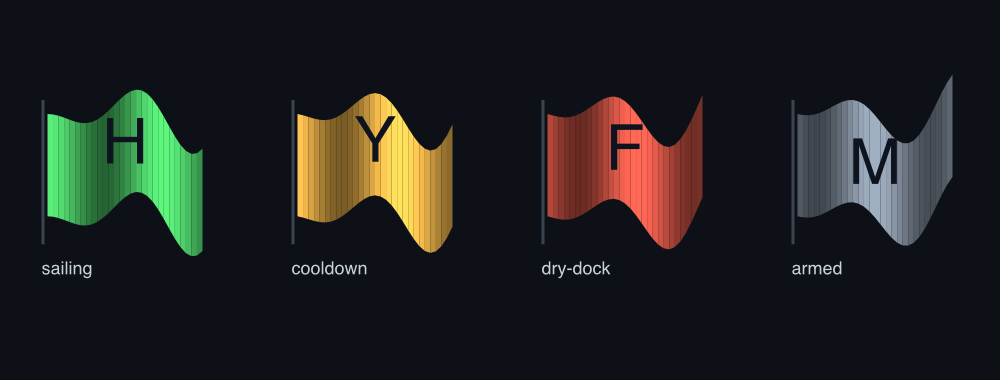
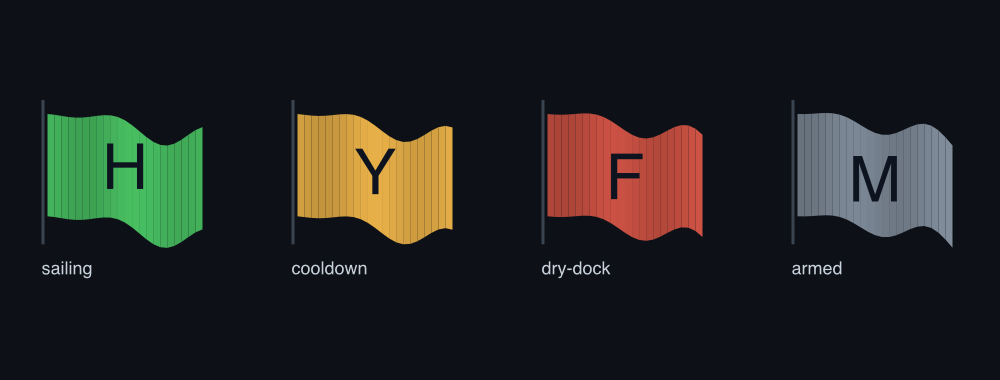
feat(pd-flag-proto): movement-driven flags (wave as a function of pole velocity)
Per operator direction: the flags should wave as a FUNCTION OF MOVEMENT, not on a
free-running clock — when the pane scrolls or resizes, the cloth reacts in one of
four directions and then settles. Lower-fidelity is fine.

Replaces the time-driven loop with a velocity model: each flag's fly edge trails
OPPOSITE the pole velocity (dx = -vx·lean, dy = -vy·lean, smoothstepped hoist→fly),
a ripple whose amplitude ∝ speed, and a gentle rest droop. Crucially the phase
only advances while moving, so a still flag does not animate at all (zero idle
re-render — the frame-budget win the motion skill wants).

main.rs drives a scripted 4-direction profile (scroll-down, scroll-up, pan-right,
pan-left) as decaying velocity impulses to record all four reactions + the settle.
This deflect(velocity) is precisely the function the live fleet pane will feed
real scroll/resize deltas into (next step: the in-pane integration).

Visually audited: frame 10 (post scroll-down → wide vertical ripple) and frame 70
(post pan-right → compressed, pulled left) are distinct; idle frames hang still.

Claude-Session: https://claude.ai/code/session_015io4g1aeeN6Cmedy3QbgR2

diff --git a/core/pd-flag-proto/src/flag_scene.rs b/core/pd-flag-proto/src/flag_scene.rs
@@ -39,10 +39,27 @@ const STAFF: Color = Color::rgb8(0x3a, 0x44, 0x50);
 const INK: Color = Color::rgb8(0x0d, 0x14, 0x1f); // dark letter, reads on every tone
 const LABEL: Color = Color::rgb8(0xc8, 0xd2, 0xdc);
 
-const STRIPS: usize = 28; // per-flag horizontal resolution of the ripple
-const WAVES: f64 = 1.35; // wave crests across one flag's width
-const CYCLES_PER_LOOP: f64 = 2.0; // integer K → seamless loop
-const PHASE_STEP: f64 = 0.7; // radians of phase offset between adjacent flags
+const STRIPS: usize = 22; // per-flag horizontal resolution (lower-fidelity is fine)
+const RIPPLE_WAVES: f64 = 1.6; // crests across the flag when it's moving
+const RIPPLE_GAIN: f64 = 0.55; // ripple amplitude per unit speed
+const LEAN: f64 = 0.55; // how far the fly end trails per unit pole velocity
+const IDLE_DROOP: f64 = 0.12; // gentle hang at rest (never stiff/blank)
+const PHASE_STEP: f64 = 0.7; // phase offset between adjacent flags
+
+/// Per-frame pole movement that drives the wave. A flag streams OPPOSITE the
+/// pole's velocity — scroll the pane down and the cloth trails up; drag it right
+/// and the cloth trails left. Four directions fall out of the (vx, vy) sign.
+/// `vx`/`vy` are normalized to roughly [-1, 1] (±1 = a hard flick); `phase`
+/// accumulates only while moving, so a still flag does not animate at all.
+pub struct Movement {
+    pub vx: f64, // horizontal pole velocity (resize / pane-move); + = rightward
+    pub vy: f64, // vertical pole velocity (scroll); + = downward
+    pub phase: f64, // accumulated ripple phase
+}
+
+fn smoothstep(u: f64) -> f64 {
+    u * u * (3.0 - 2.0 * u)
+}
 
 fn scale_color(c: Color, f: f64) -> Color {
     let f = f.clamp(0.0, 1.4);
@@ -105,26 +122,24 @@ impl TextEngine {
     }
 }
 
-/// Build a horizontal row of waving flags for the given loop position (0..1).
-pub fn build(scene: &mut Scene, te: &mut TextEngine, loop_pos: f64, flags: &[FlagSpec], width: u32, height: u32) {
+/// Build a horizontal row of flags reacting to the current pole `Movement`.
+pub fn build(scene: &mut Scene, te: &mut TextEngine, mv: &Movement, flags: &[FlagSpec], width: u32, height: u32) {
     let w = width as f64;
     let h = height as f64;
     let n = flags.len().max(1) as f64;
 
-    // Layout: each flag gets an equal horizontal cell; the flag itself fills the
-    // upper portion, with the letter on it and a lifecycle label beneath.
     let cell_w = w / n;
     let flag_w = (cell_w * 0.62).min(220.0);
     let flag_h = flag_w * 0.66;
     let top_y = h * 0.30;
-    let amp = flag_h * 0.42; // max sway at the fly edge
+    let speed = (mv.vx * mv.vx + mv.vy * mv.vy).sqrt().min(1.6);
 
     for (i, spec) in flags.iter().enumerate() {
         let cx = cell_w * (i as f64 + 0.5);
         let hoist_x = cx - flag_w / 2.0;
         let phase_i = i as f64 * PHASE_STEP;
 
-        // The staff (flagpole): a thin vertical bar at the hoist.
+        // The staff (flagpole): a thin vertical bar at the hoist — the fixed point.
         let mut staff = BezPath::new();
         let sx = hoist_x - 6.0;
         staff.move_to(Point::new(sx, top_y - 14.0));
@@ -134,18 +149,28 @@ pub fn build(scene: &mut Scene, te: &mut TextEngine, loop_pos: f64, flags: &[Fla
         staff.close_path();
         scene.fill(Fill::NonZero, Affine::IDENTITY, &Brush::Solid(STAFF), None, &staff);
 
-        let angle = |u: f64| 2.0 * PI * WAVES * u - 2.0 * PI * CYCLES_PER_LOOP * loop_pos + phase_i;
-        let disp = |u: f64| amp * u * angle(u).sin();
+        // Cloth deflection at column u (0=hoist pinned, 1=free fly edge):
+        //   horizontal trail  — the fly streams opposite vx
+        //   vertical trail     — the fly streams opposite vy, plus a rest droop
+        //   ripple             — travels only while moving (∝ speed)
+        let dx = |u: f64| smoothstep(u) * (-mv.vx) * LEAN * flag_w;
+        let dy = |u: f64| {
+            let trail = smoothstep(u) * (-mv.vy) * LEAN * flag_h;
+            let droop = IDLE_DROOP * flag_h * u * u;
+            let ripple =
+                RIPPLE_GAIN * flag_h * speed * u * (2.0 * PI * RIPPLE_WAVES * u - mv.phase + phase_i).sin();
+            trail + droop + ripple
+        };
 
-        // The cloth: N shaded vertical strips. Lighting from cos(angle) so the
-        // ripple reads as folds; brightness also rises slightly toward the fly.
+        // The cloth as N shaded vertical strips; lighting from the ripple slope
+        // (scaled by speed) so folds appear while moving and flatten at rest.
         for j in 0..STRIPS {
             let u0 = j as f64 / STRIPS as f64;
             let u1 = (j + 1) as f64 / STRIPS as f64;
-            let x0 = hoist_x + u0 * flag_w;
-            let x1 = hoist_x + u1 * flag_w;
-            let d0 = disp(u0);
-            let d1 = disp(u1);
+            let x0 = hoist_x + u0 * flag_w + dx(u0);
+            let x1 = hoist_x + u1 * flag_w + dx(u1);
+            let d0 = dy(u0);
+            let d1 = dy(u1);
 
             let mut strip = BezPath::new();
             strip.move_to(Point::new(x0, top_y + d0));
@@ -155,17 +180,17 @@ pub fn build(scene: &mut Scene, te: &mut TextEngine, loop_pos: f64, flags: &[Fla
             strip.close_path();
 
             let um = 0.5 * (u0 + u1);
-            let light = 0.80 + 0.34 * angle(um).cos() + 0.06 * um;
+            let fold = (2.0 * PI * RIPPLE_WAVES * um - mv.phase + phase_i).cos();
+            let light = 0.82 + 0.34 * fold * (speed / 1.6) + 0.06 * um;
             scene.fill(Fill::NonZero, Affine::IDENTITY, &Brush::Solid(scale_color(spec.color, light)), None, &strip);
         }
 
         // The ICS letter, riding the cloth at the flag's middle column.
-        let mid_d = disp(0.5);
         te.draw_centered(
             scene,
             &spec.letter.to_string(),
-            cx,
-            top_y + flag_h / 2.0 + mid_d,
+            cx + dx(0.5),
+            top_y + flag_h / 2.0 + dy(0.5),
             (flag_h * 0.62) as f32,
             INK,
         );

diff --git a/core/pd-flag-proto/src/main.rs b/core/pd-flag-proto/src/main.rs
@@ -13,7 +13,7 @@
 
 mod flag_scene;
 
-use flag_scene::{tone, FlagSpec, TextEngine};
+use flag_scene::{tone, FlagSpec, Movement, TextEngine};
 use vello::{
     peniko::Color,
     AaConfig, AaSupport, RenderParams, Renderer, RendererOptions, Scene,
@@ -25,7 +25,7 @@ use wgpu::{
 
 const WIDTH: u32 = 1000;
 const HEIGHT: u32 = 380;
-const FRAMES: u32 = 90; // 90 frames @ 30fps = a 3s seamless loop (CYCLES_PER_LOOP=2)
+const FRAMES: u32 = 120; // 4 gestures @ 30fps; starts & ends still → near-seamless
 
 fn main() {
     let out_dir = std::path::Path::new("docs/frames");
@@ -100,10 +100,30 @@ fn main() {
     let bg = flag_scene::background();
     let base_color = Color::rgb8(bg.r, bg.g, bg.b);
 
+    // Scripted 4-direction movement profile. Each gesture is a velocity impulse
+    // that decays, so the flags react then settle — idle frames have no motion.
+    // This IS the deflect(velocity) the live pane will feed real scroll/resize
+    // deltas into; here we drive it with a script to record all four directions.
+    let mut vx = 0.0f64;
+    let mut vy = 0.0f64;
+    let mut phase = 0.0f64;
+    const DECAY: f64 = 0.87;
+    // (frame, Δvx, Δvy): scroll-down, scroll-up, pan-right, pan-left.
+    let impulses = [(6u32, 0.0, 1.0), (36, 0.0, -1.0), (66, 1.0, 0.0), (96, -1.0, 0.0)];
+
     for frame in 0..FRAMES {
-        let loop_pos = frame as f64 / FRAMES as f64;
+        for (f, dvx, dvy) in impulses.iter() {
+            if *f == frame {
+                vx += *dvx;
+                vy += *dvy;
+            }
+        }
+        let speed = (vx * vx + vy * vy).sqrt();
+        phase += speed * 0.9;
+        let mv = Movement { vx, vy, phase };
+
         scene.reset();
-        flag_scene::build(&mut scene, &mut text, loop_pos, &flags, WIDTH, HEIGHT);
+        flag_scene::build(&mut scene, &mut text, &mv, &flags, WIDTH, HEIGHT);
 
         renderer
             .render_to_texture(
@@ -168,6 +188,10 @@ fn main() {
         if frame == 0 || frame == FRAMES / 2 {
             eprintln!("[flag] wrote {}", path.display());
         }
+
+        // Pole velocity bleeds off — the flag swing settles, then idles still.
+        vx *= DECAY;
+        vy *= DECAY;
     }
 
     eprintln!(
